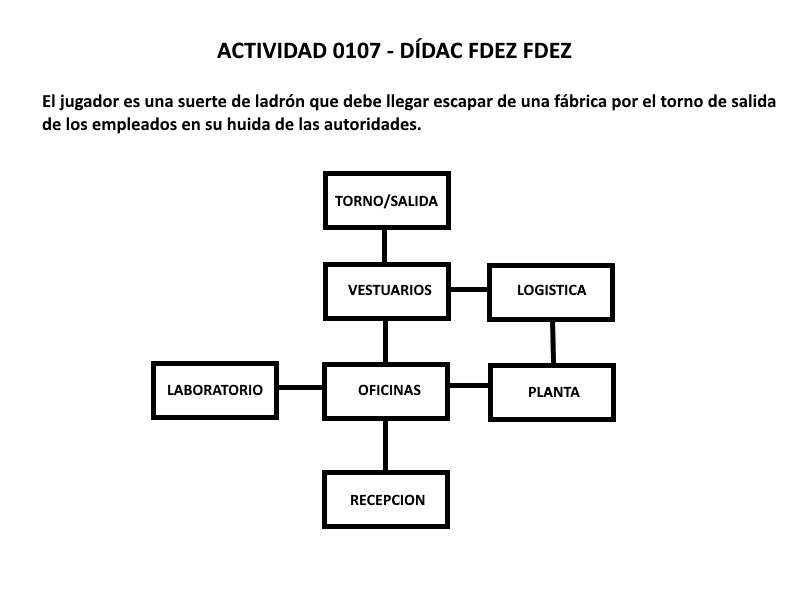
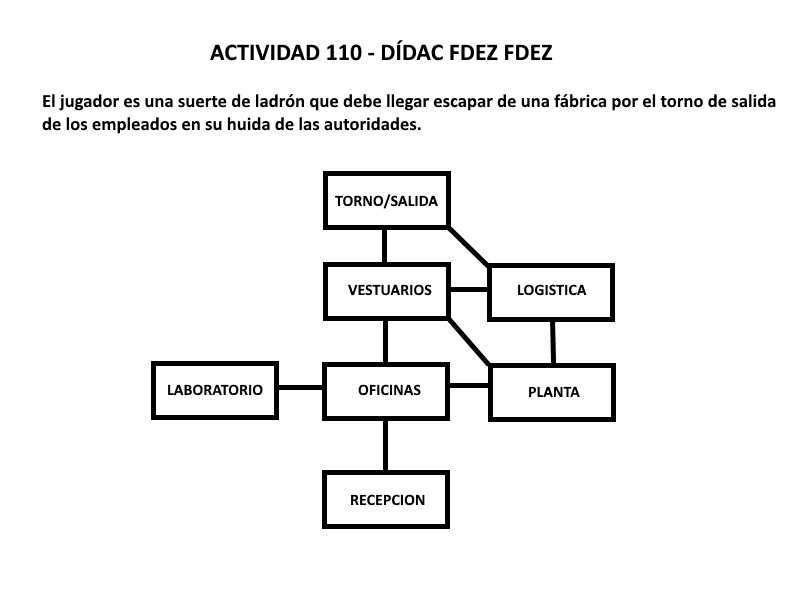
Commit 04

diff --git a/Game.java b/Game.java
@@ -46,13 +46,13 @@ public class Game
         torno = new Room("en el torno de salida para empleados.");
 
         // initialise room exits
-        recepcion.setExits(oficinas, null, null, null);
-        oficinas.setExits(vestuarios, planta, recepcion, laboratorio);
-        laboratorio.setExits(null, oficinas, null, null);
-        planta.setExits(logistica, null, null, oficinas);
-        logistica.setExits(null, null, planta, vestuarios);
-        vestuarios.setExits(torno, logistica, oficinas, null);
-        torno.setExits(null, null, vestuarios, null);
+        recepcion.setExits(oficinas, null, null, null, null);
+        oficinas.setExits(vestuarios, planta, recepcion, laboratorio, null);
+        laboratorio.setExits(null, oficinas, null, null, null);
+        planta.setExits(logistica, null, null, oficinas, null);
+        logistica.setExits(null, null, planta, vestuarios, null);
+        vestuarios.setExits(torno, logistica, oficinas, null, planta);
+        torno.setExits(null, null, vestuarios, null, logistica);
 
         currentRoom = recepcion;  // start game outside
     }
@@ -161,6 +161,9 @@ public class Game
         if(direction.equals("west")) {
             nextRoom = currentRoom.westExit;
         }
+        if(direction.equals("southEast")) {
+            nextRoom = currentRoom.southEastExit;
+        }
 
         if (nextRoom == null) {
             System.out.println("There is no door!");
@@ -205,6 +208,9 @@ public class Game
         }
         if(currentRoom.westExit != null) {
             System.out.print("west ");
+        }
+        if(currentRoom.southEastExit != null) {
+            System.out.print("southEast ");
         }
         System.out.println();
     }

diff --git a/Room.java b/Room.java
@@ -19,6 +19,7 @@ public class Room
     public Room southExit;
     public Room eastExit;
     public Room westExit;
+    public Room southEastExit;
 
     /**
      * Create a room described "description". Initially, it has
@@ -38,8 +39,9 @@ public class Room
      * @param east The east east.
      * @param south The south exit.
      * @param west The west exit.
+     * @param southEast The southEast exit.
      */
-    public void setExits(Room north, Room east, Room south, Room west) 
+    public void setExits(Room north, Room east, Room south, Room west, Room southEast) 
     {
         if(north != null)
             northExit = north;
@@ -49,6 +51,8 @@ public class Room
             southExit = south;
         if(west != null)
             westExit = west;
+        if(southEast != null)
+            southEastExit = southEast;
     }
 
     /**
